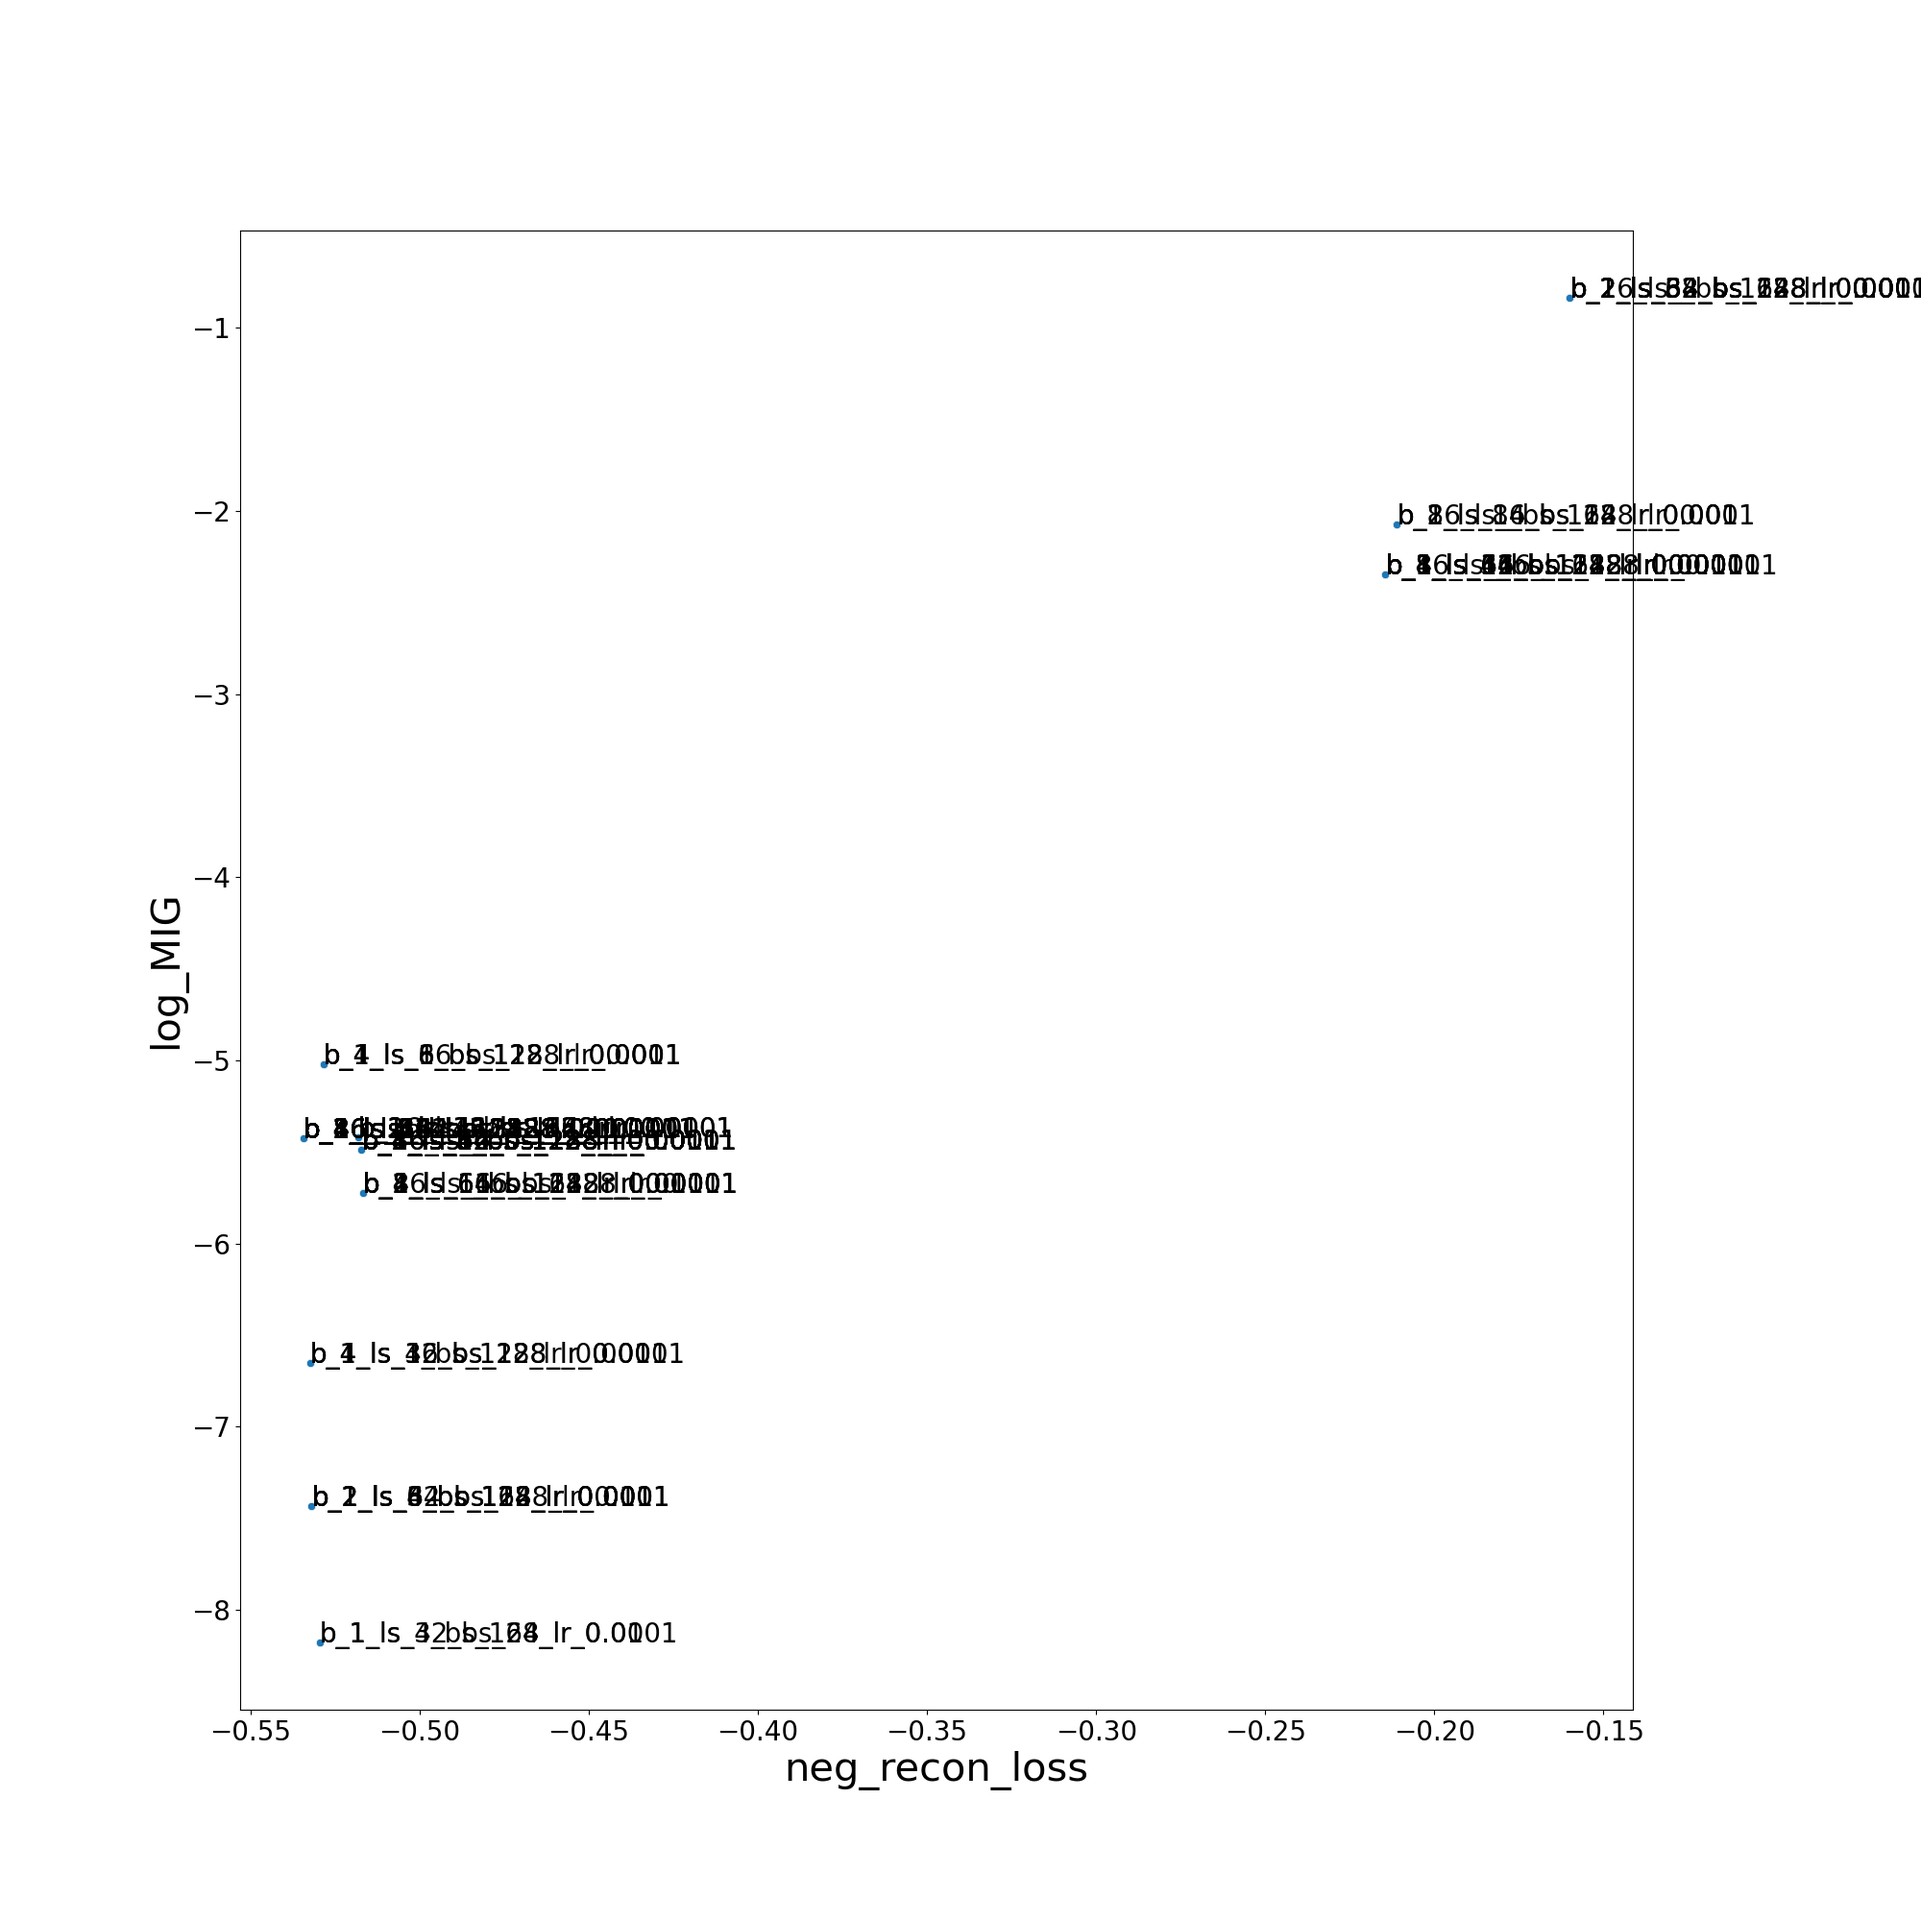
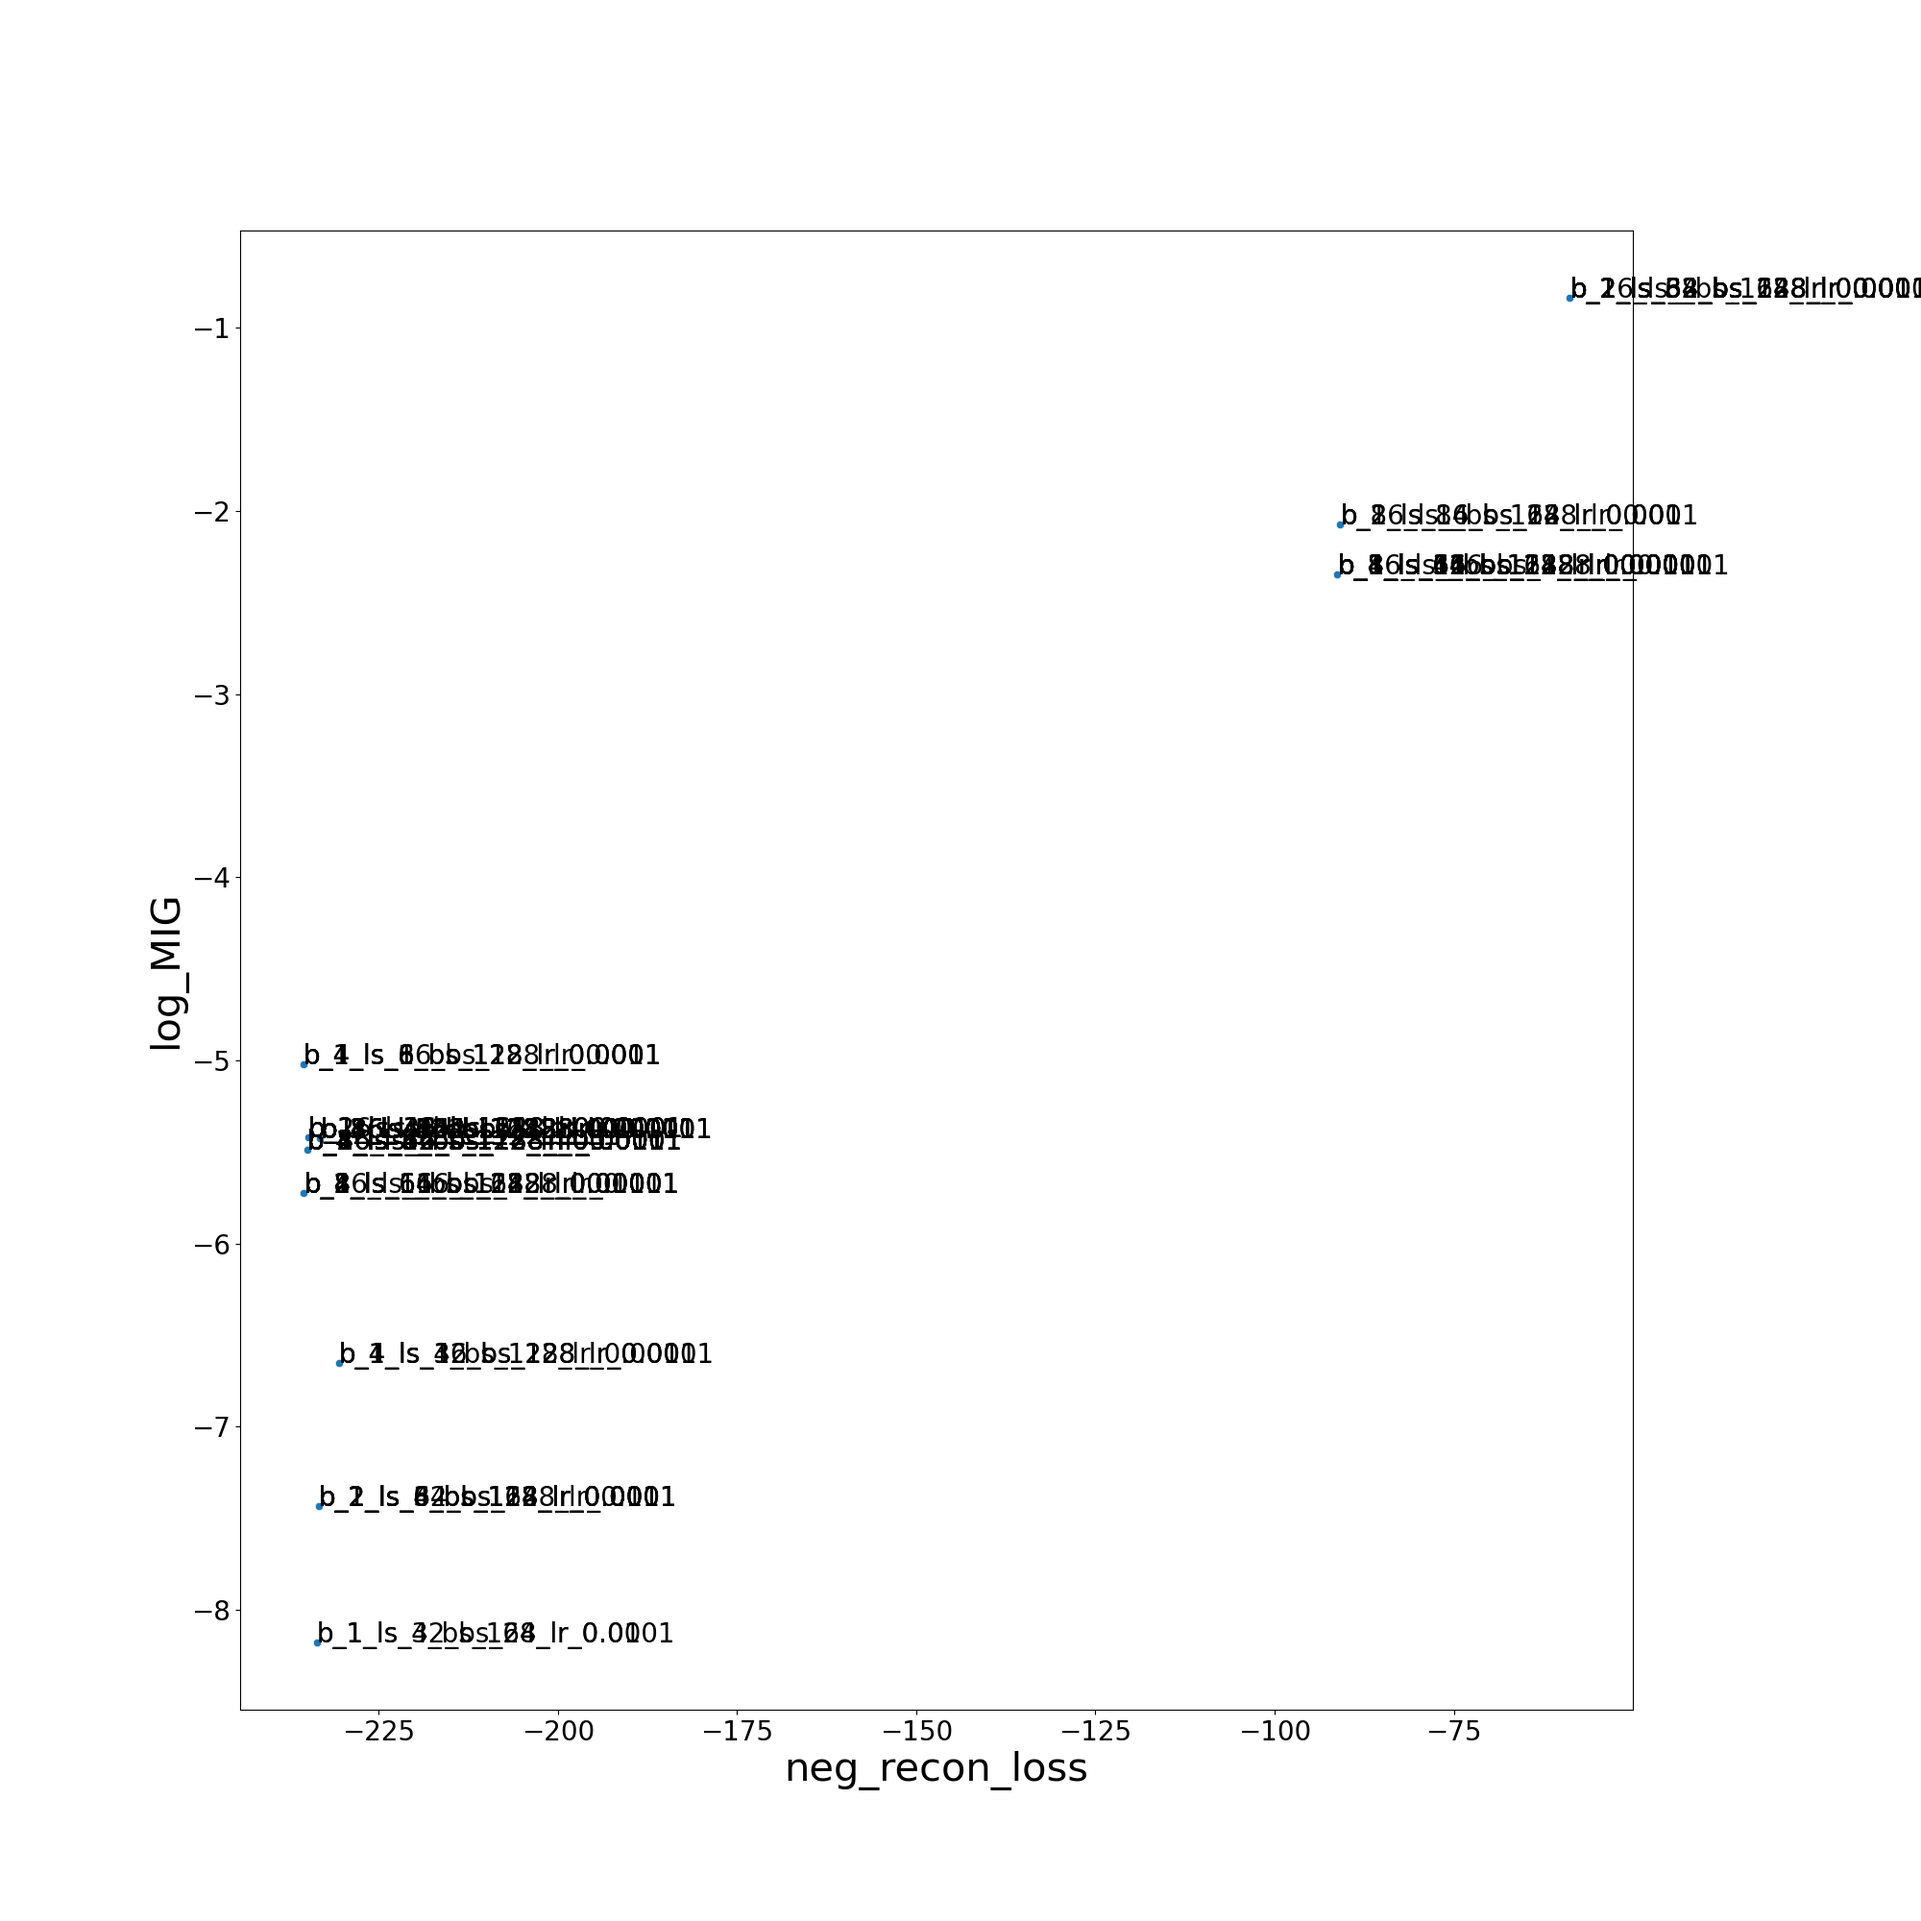
minor

diff --git a/analysis/plot_grid_search.py b/analysis/plot_grid_search.py
@@ -24,20 +24,27 @@ for dirname in dirnames:
     s = model_name[len(model_and_data_type)+1:]
     print(s.split('_'))
     _, beta, _, _, latent_size, _, _, batch_size, _, _, learning_rate = s.split('_')
-    fn_log = 'eval.pkl'
+    fn_eval = 'eval.pkl'
+    fn_log = 'train_losses.log'
+    fn_eval = os.path.join(path2logs, model_name, fn_eval)
     fn_log = os.path.join(path2logs, model_name, fn_log)
-    print(f'Loading {fn_log}')
-    if os.path.exists(fn_log):
-        metrics, losses = pickle.load(open(fn_log, 'rb'))
+    print(f'Loading {fn_eval}')
+    
+    if os.path.exists(fn_log) and os.path.exists(fn_eval):
+        metrics, losses = pickle.load(open(fn_eval, 'rb'))
+        df_log = pd.read_csv(fn_log)
         print(dirname)
     else:
         print(f'WARNING: log not found - {fn_log}')
+    
+    recon_loss = float(df_log[df_log['Loss']=='recon_loss'].tail(1)['Value']) # take last value
+
     df = df.append({'beta':beta,
                    'latent_size':latent_size,
                    'batch_size':batch_size,
                    'learning_rate':learning_rate,
-                   'recon_loss':losses['recon_loss'],
-                   'neg_recon_loss':-losses['recon_loss'],
+                   'recon_loss':recon_loss,
+                   'neg_recon_loss':-recon_loss, #-losses['recon_loss'],
                    'MIG':metrics['MIG'],
                    'log_MIG':np.log10(metrics['MIG']),
                    'model_name':model_name,
@@ -51,8 +58,11 @@ fn_df = os.path.join(path2output, f'grid_search_results.json')
 df.to_json(fn_df)
 print(f'Results saved to: {fn_df}')
 
-IX_min = df['recon_loss'].idxmin(axis=0)
-print(f'Best model with minimal train loss is: \n {df.iloc[IX_min]}')
+print(f'Best model(s) in term of train reconstruction loss:')
+min_value = np.min(df['recon_loss'])
+print(df[df['recon_loss']==min_value])
+
+
 
 # PLOT
 fig, axs = plt.subplots(2, 2, figsize=(20, 20))
